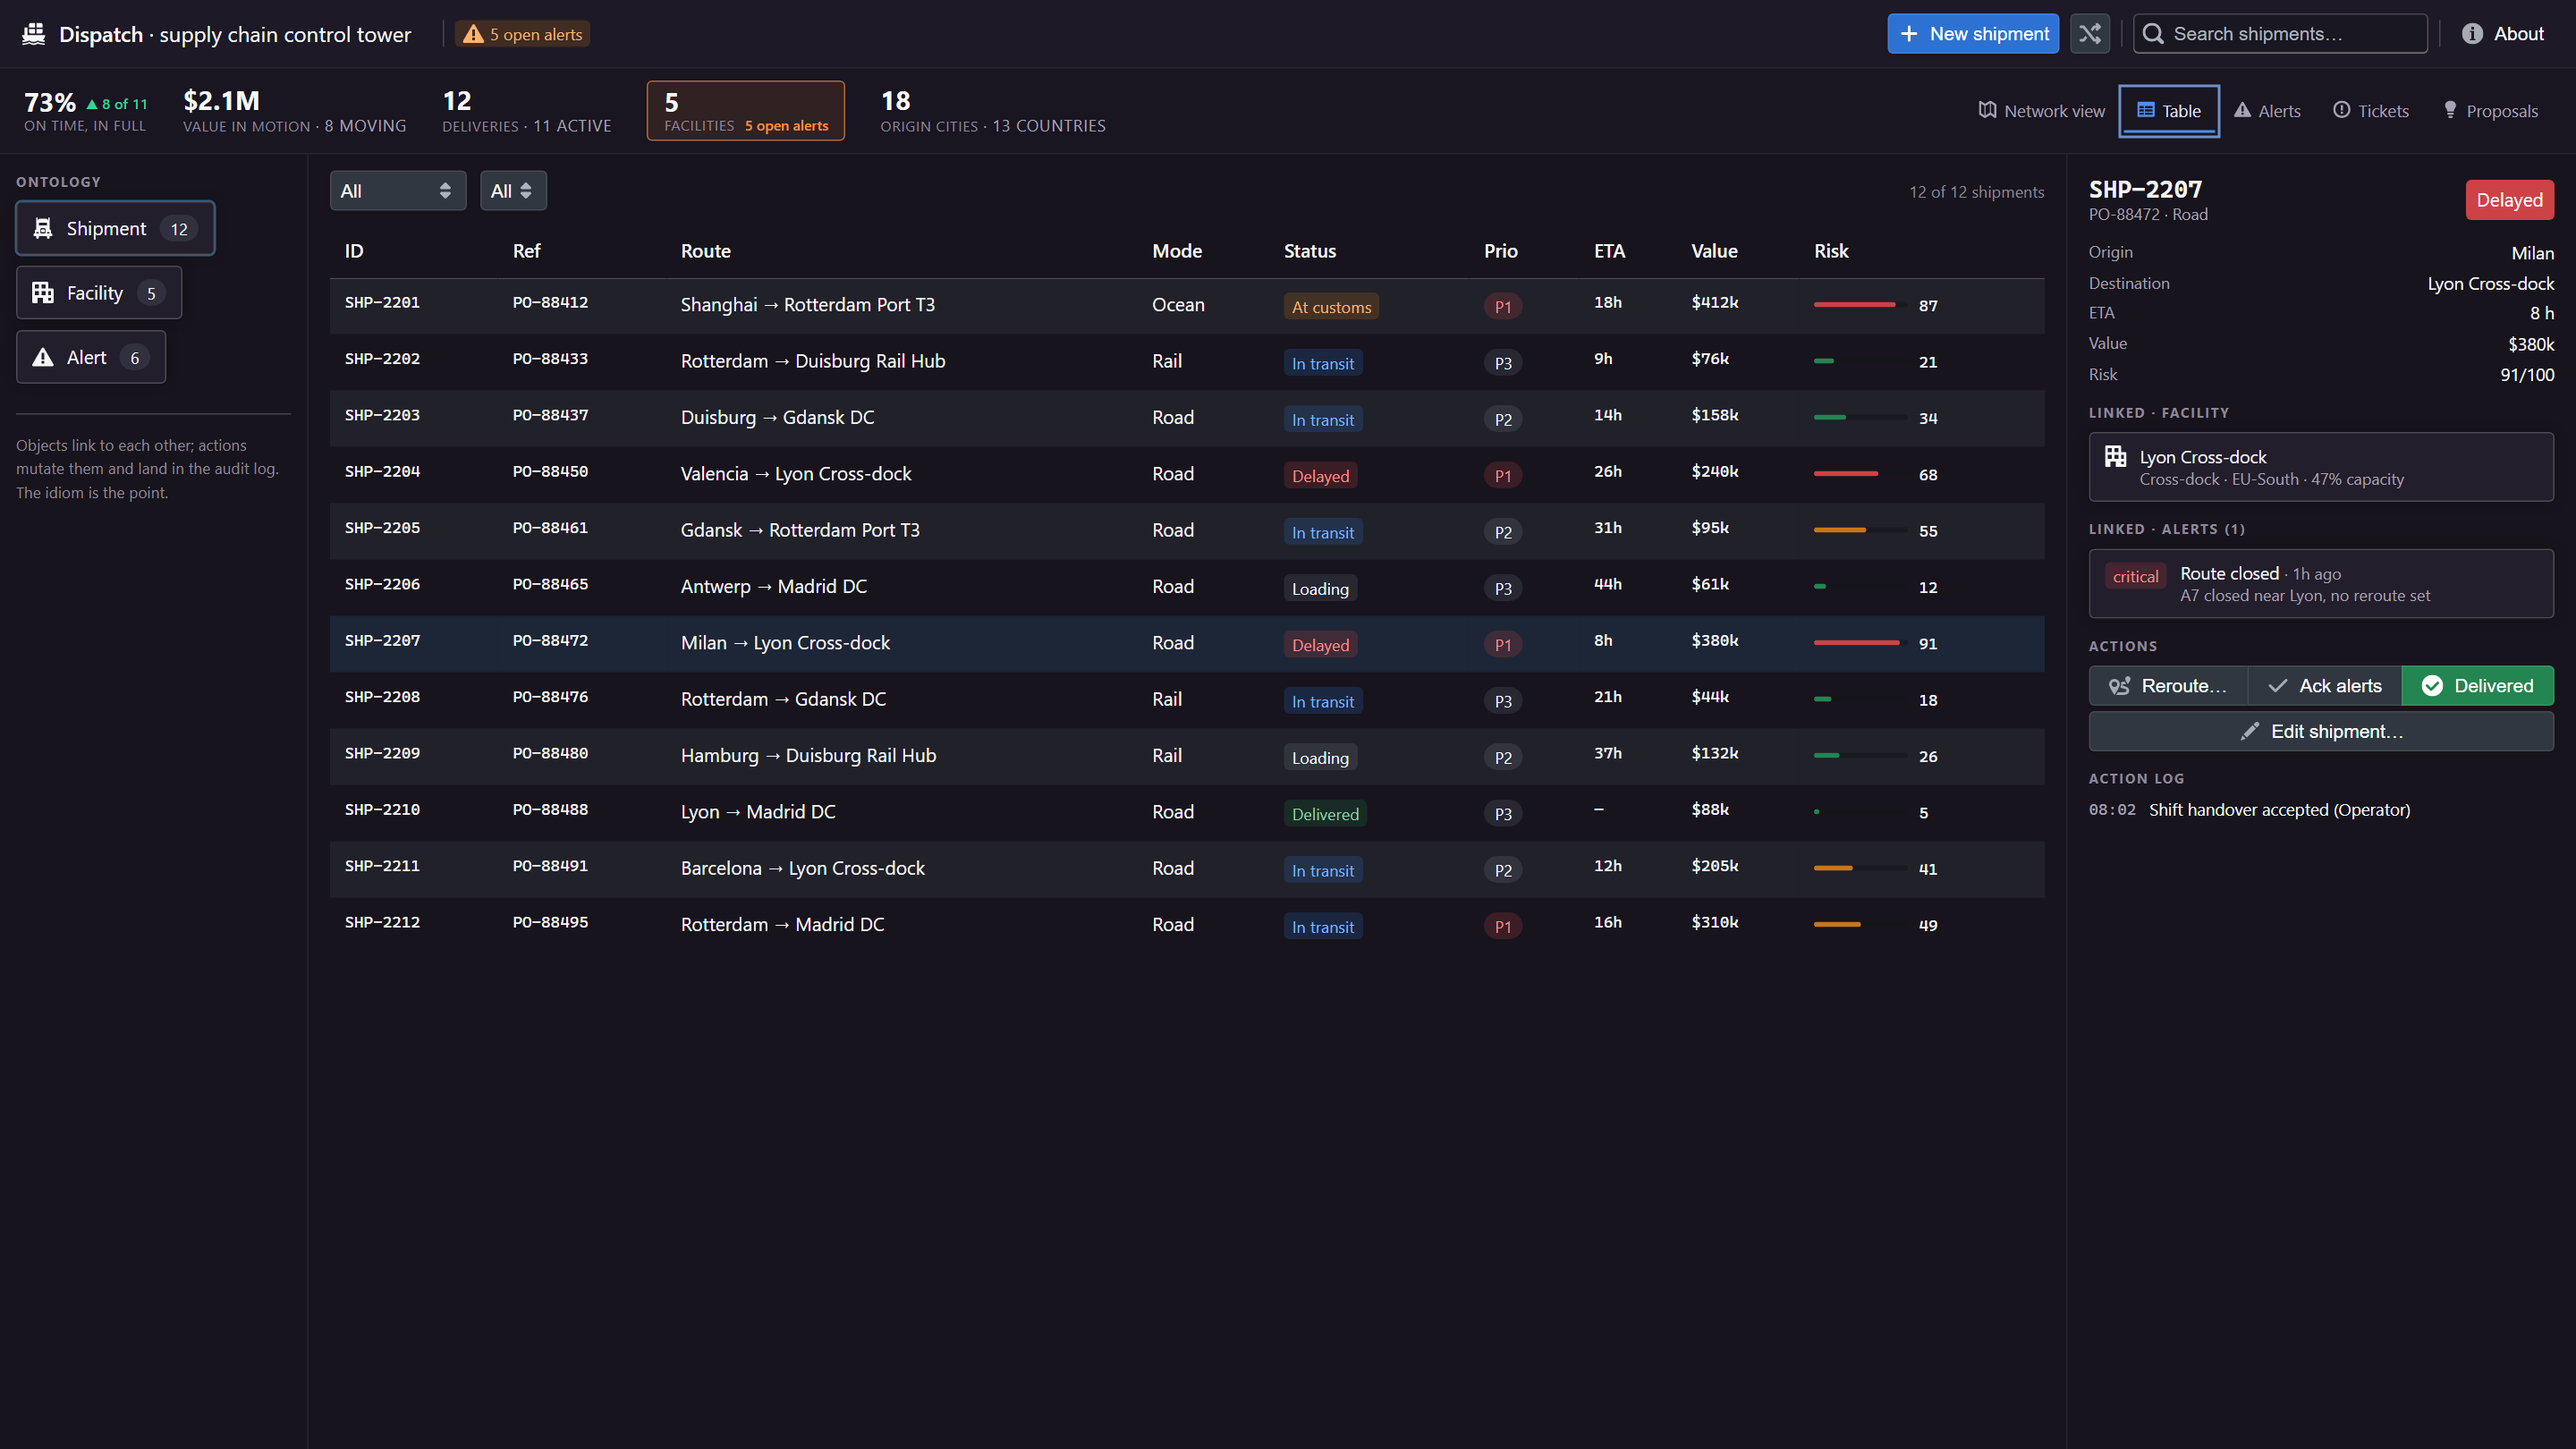
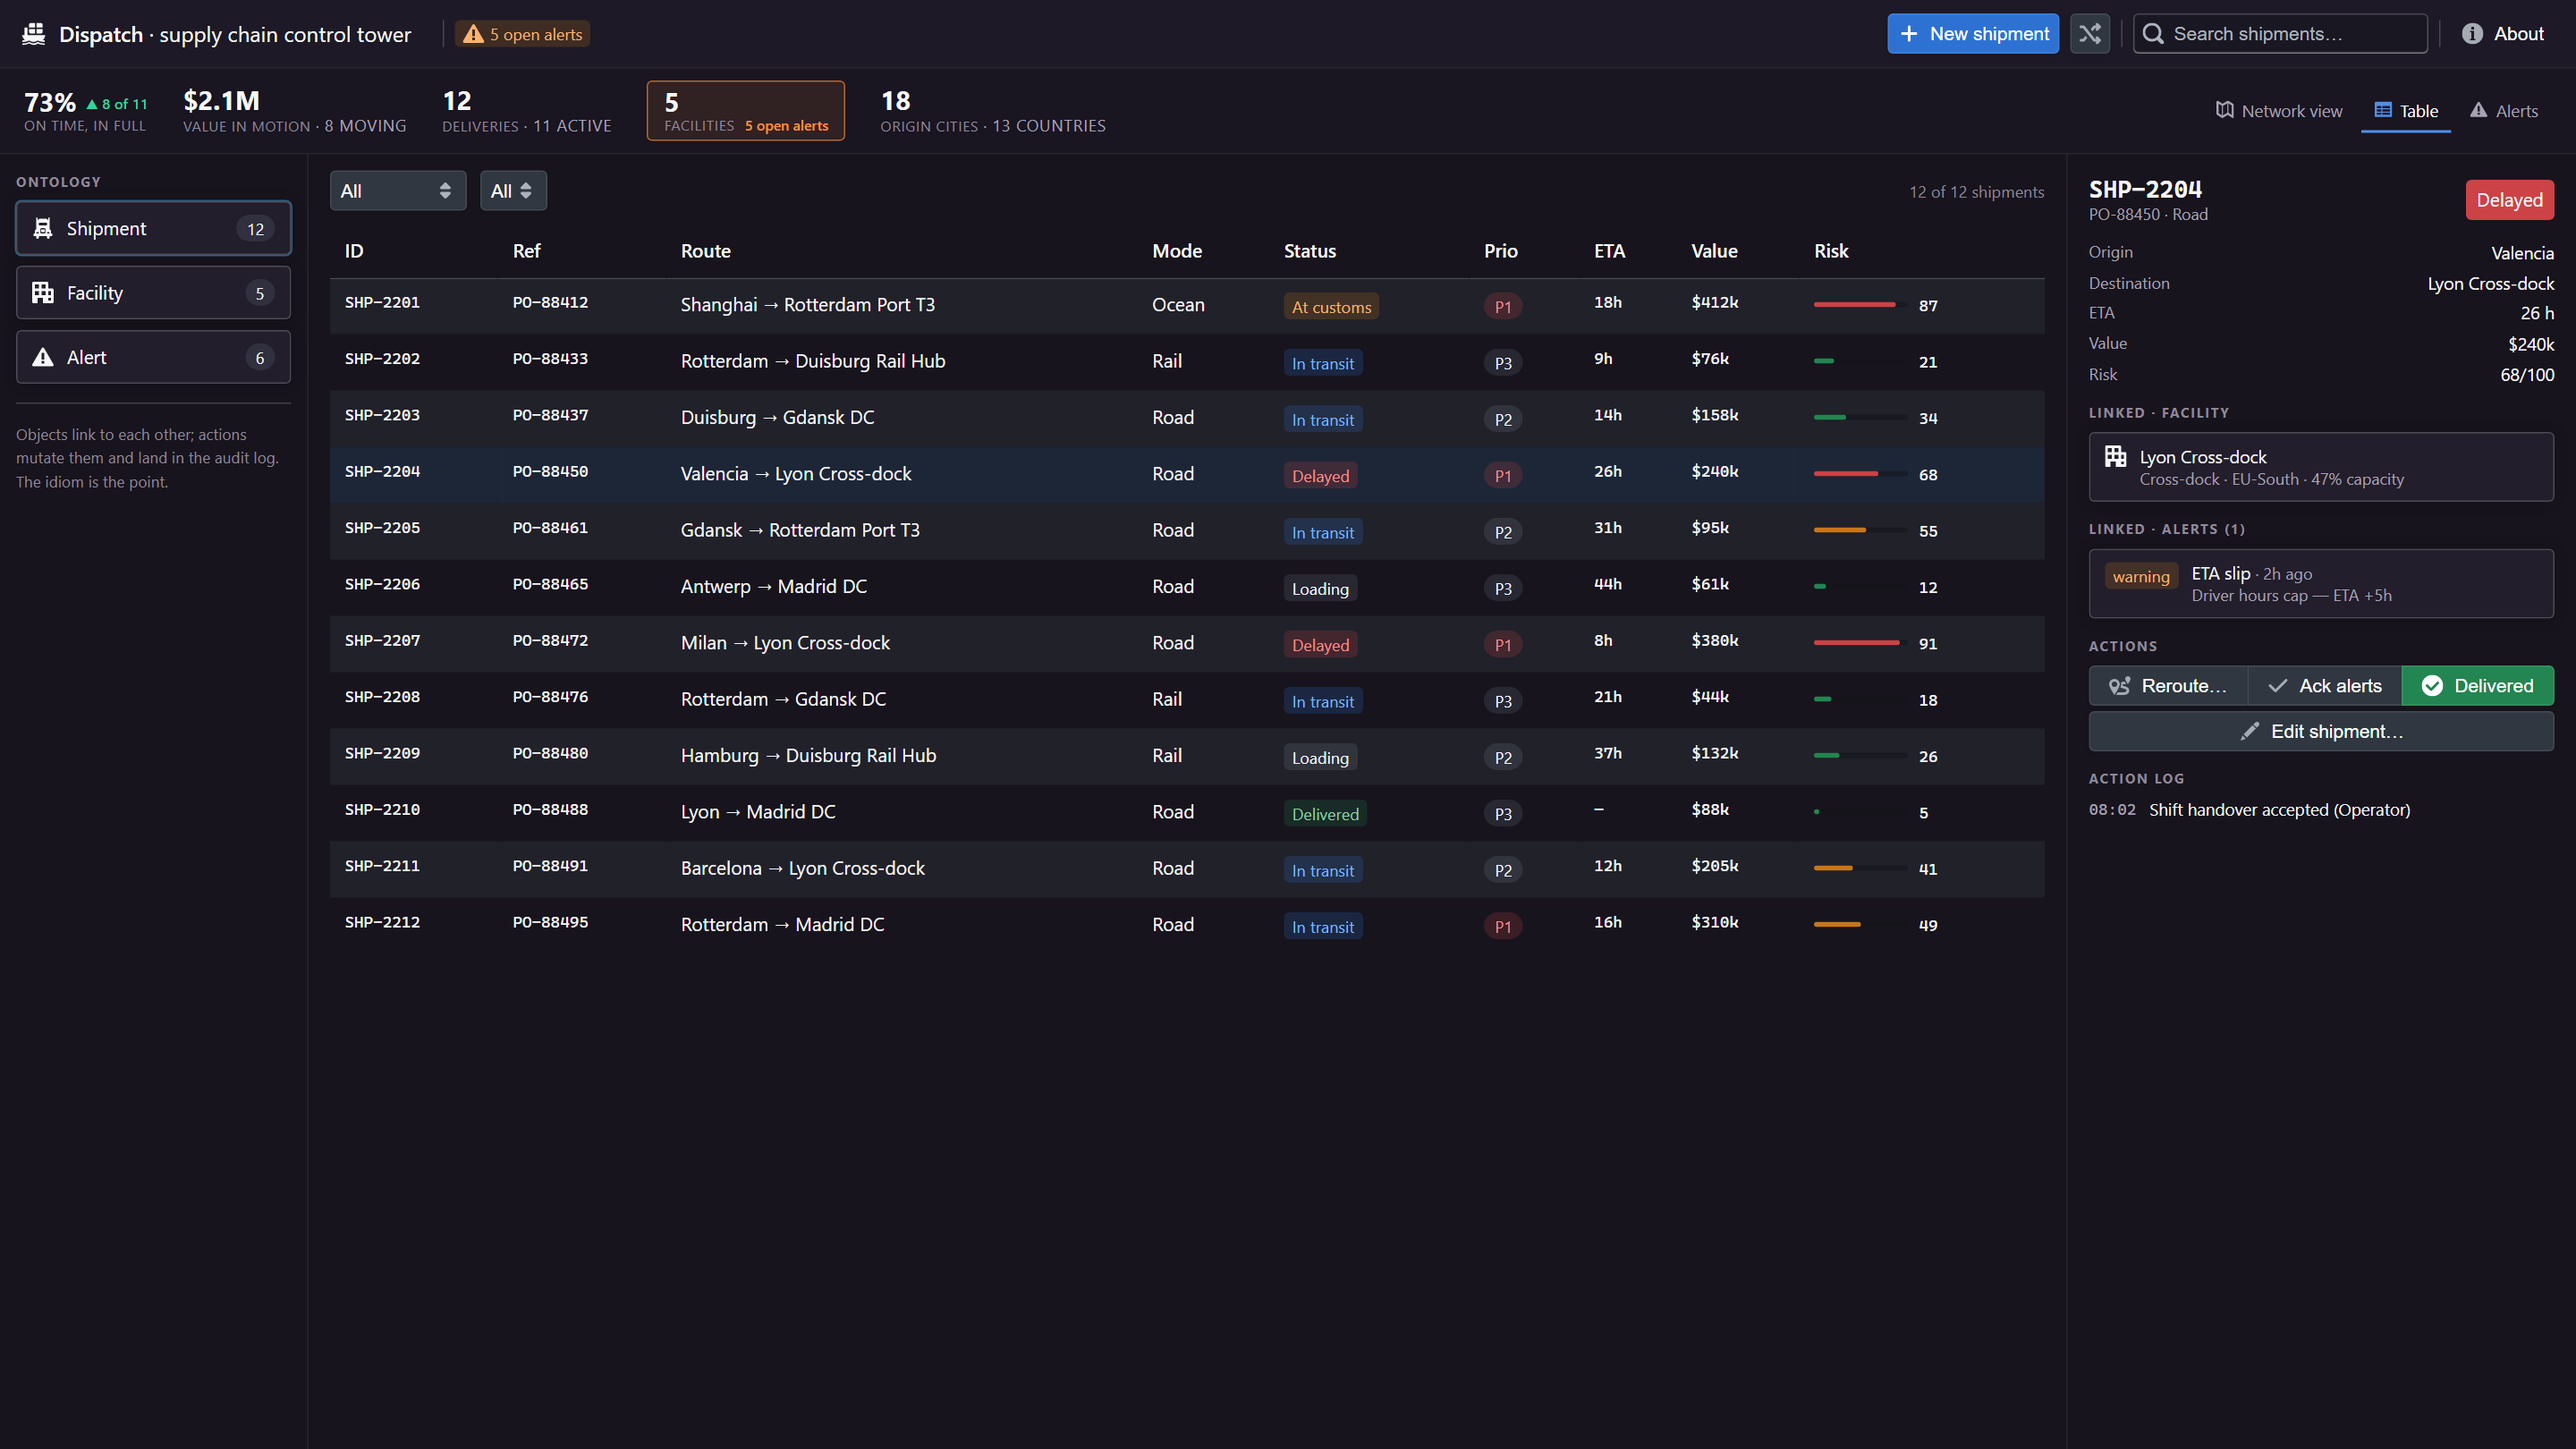
Simplify to demo-proof: drop dead chrome, fix fast-tab-flip crash
Removed everything that looked interactive but wasn't: the map
toolbar (Select/Search around/Draw/Measure), Tickets and Proposals
stub tabs, the Find/Histogram panel tabs, the Entity 360 side tab,
and the sticky navbar tooltip that could intercept tab clicks.
Three view tabs remain (Network / Table / Alerts) and every visible
control now does something real. Reroute is disabled for delivered
shipments; the KPI ribbon wraps cleanly on 1536/1366 laptops.

Real bug found by the pre-demo test fan-out and fixed: the map's
deferred invalidateSize timer was never cleared on unmount, so
flipping tabs within ~60ms crashed with _leaflet_pos pageerrors.
The timer is now cleared in the effect cleanup; 15 rapid flips
inside the window run clean.

Verified by a 6-agent sweep: every control clicked, edge cases
(all alerts acked, all shipments delivered, empty map, 5 rapid
creates), 1920/1536/1366 widths, a 105-gesture chaos session, the
exact demo script end-to-end (every step reflects in <500ms), and
a visual review — all green, zero console errors.

diff --git a/src/App.jsx b/src/App.jsx
@@ -5,7 +5,7 @@
 import { useMemo, useState } from 'react';
 import {
     Navbar, Alignment, InputGroup, Button, ButtonGroup, Tag, HTMLTable, Card,
-    Dialog, DialogBody, DialogFooter, HTMLSelect, ProgressBar, Icon, Tooltip,
+    Dialog, DialogBody, DialogFooter, HTMLSelect, ProgressBar, Icon,
     Divider, NonIdealState, OverlayToaster, Position, Intent,
     FormGroup, NumericInput,
 } from '@blueprintjs/core';
@@ -47,15 +47,6 @@ const VIEW_TABS = [
     { key: 'map', icon: 'map', label: 'Network view' },
     { key: 'table', icon: 'th', label: 'Table' },
     { key: 'alerts', icon: 'warning-sign', label: 'Alerts' },
-    { key: 'tickets', icon: 'issue', label: 'Tickets' },
-    { key: 'proposals', icon: 'lightbulb', label: 'Proposals' },
-];
-
-const MAP_TOOLS = [
-    { key: 'select', icon: 'select', label: 'Select' },
-    { key: 'search-around', icon: 'search-around', label: 'Search around' },
-    { key: 'draw', icon: 'draw', label: 'Draw' },
-    { key: 'measure', icon: 'arrows-horizontal', label: 'Measure' },
 ];
 
 export default function App() {
@@ -70,8 +61,7 @@ export default function App() {
     const [aboutOpen, setAboutOpen] = useState(false);
     // shipment form: null = closed, {mode:'create'|'edit', fields} = open
     const [form, setForm] = useState(null);
-    const [view, setView] = useState('map');   // 'map' | 'table' | 'alerts' | 'tickets' | 'proposals'
-    const [tool, setTool] = useState('select'); // map toolbar (select is the live tool)
+    const [view, setView] = useState('map');   // 'map' | 'table' | 'alerts'
     const [mapShow, setMapShow] = useState(DEFAULT_MAP_LAYERS);
     const [overlays, setOverlays] = useState(DEFAULT_OVERLAYS);
     const toggleMapLayer = (k) => setMapShow(m => ({ ...m, [k]: !m[k] }));
@@ -159,9 +149,8 @@ export default function App() {
                 <Navbar.Group align={Alignment.RIGHT}>
                     <Button intent={Intent.PRIMARY} icon="plus" text="New shipment"
                         onClick={() => setForm({ mode: 'create', fields: { ...EMPTY_FORM } })} />
-                    <Tooltip content="Create a shipment with randomized parameters" placement="bottom">
-                        <Button icon="random" style={{ marginLeft: 8 }} onClick={actRandomShipment} />
-                    </Tooltip>
+                    <Button icon="random" title="Create a shipment with randomized parameters"
+                        style={{ marginLeft: 8 }} onClick={actRandomShipment} />
                     <Navbar.Divider />
                     <InputGroup leftIcon="search" placeholder="Search shipments…" value={query}
                         onChange={e => setQuery(e.target.value)} style={{ width: 220 }} />
@@ -214,13 +203,11 @@ export default function App() {
                         const count = t.key === 'shipment' ? shipments.length : t.key === 'facility' ? FACILITIES.length : alerts.length;
                         const active2 = t.key === 'shipment';
                         return (
-                            <Tooltip key={t.key} content={active2 ? t.description : `${t.description} — modeled; list view TBD`} placement="right">
-                                <Card interactive={active2} className={'otype' + (active2 ? ' otype--active' : '')}>
-                                    <Icon icon={t.icon} />
-                                    <span className="otype-label">{t.label}</span>
-                                    <Tag minimal round>{count}</Tag>
-                                </Card>
-                            </Tooltip>
+                            <Card key={t.key} title={t.description} className={'otype' + (active2 ? ' otype--active' : '')}>
+                                <Icon icon={t.icon} />
+                                <span className="otype-label">{t.label}</span>
+                                <Tag minimal round>{count}</Tag>
+                            </Card>
                         );
                     })}
                     <Divider style={{ margin: '14px 0' }} />
@@ -241,18 +228,6 @@ export default function App() {
                 {/* ---- Main pane: map / table / alerts / stubs ---- */}
                 <main className="table-pane">
                     <div className="filters">
-                        {view === 'map' && (
-                            <>
-                                <ButtonGroup>
-                                    {MAP_TOOLS.map(t => (
-                                        <Tooltip key={t.key} content={t.key === 'select' ? 'Click objects on the map to inspect them' : 'Demo chrome — selection is the live tool'} placement="bottom">
-                                            <Button icon={t.icon} text={t.label} active={tool === t.key} onClick={() => setTool(t.key)} />
-                                        </Tooltip>
-                                    ))}
-                                </ButtonGroup>
-                                <Divider style={{ height: 20 }} />
-                            </>
-                        )}
                         {(view === 'map' || view === 'table') && (
                             <>
                                 <HTMLSelect value={statusFilter} onChange={e => setStatusFilter(e.target.value)}
@@ -322,14 +297,6 @@ export default function App() {
                         </div>
                     )}
 
-                    {view === 'tickets' && (
-                        <NonIdealState icon="issue" title="Tickets aren't wired in this demo"
-                            description="The tab shows the shape of the console; the live objects are shipments, facilities and alerts." />
-                    )}
-                    {view === 'proposals' && (
-                        <NonIdealState icon="lightbulb" title="Proposals aren't wired in this demo"
-                            description="In the real idiom this is where AI-suggested reallocations would queue for operator approval." />
-                    )}
                 </main>
 
                 {/* ---- Object detail + actions ---- */}
@@ -378,7 +345,7 @@ export default function App() {
 
                             <div className="rail-title">ACTIONS</div>
                             <ButtonGroup fill vertical={false} className="actions-row">
-                                <Button icon="route" text="Reroute…" onClick={() => {
+                                <Button icon="route" text="Reroute…" disabled={selected.status === 'Delivered'} onClick={() => {
                                     // preselect the first facility that isn't the current destination —
                                     // stale state here made the select show one thing and submit another
                                     setRerouteDest(FACILITIES.find(f => f.id !== selected.destId).id);

diff --git a/src/index.css b/src/index.css
@@ -14,7 +14,8 @@ body { font-family: -apple-system, BlinkMacSystemFont, 'Segoe UI', sans-serif; }
 
 /* ---- KPI ribbon + view tabs ---- */
 .kpis { display: flex; align-items: stretch; gap: 26px; padding: 10px 18px 9px;
-    background: #191521; border-bottom: 1px solid rgba(255,255,255,0.07); }
+    background: #191521; border-bottom: 1px solid rgba(255,255,255,0.07); flex-wrap: wrap; row-gap: 4px; }
+@media (max-width: 1600px) { .kpis { gap: 16px; } .kpi__num { font-size: 17px; } }
 .kpi { display: flex; flex-direction: column; justify-content: center; white-space: nowrap; }
 .kpi__num { font-size: 19px; font-weight: 700; letter-spacing: 0.01em; line-height: 1.15;
     font-variant-numeric: tabular-nums; }
@@ -156,18 +157,8 @@ body { font-family: -apple-system, BlinkMacSystemFont, 'Segoe UI', sans-serif; }
 .ctl-metrics__row b { color: #fff; font-weight: 600; font-variant-numeric: tabular-nums; }
 .ctl-stem { flex: 1; width: 0; border-left: 1px solid rgba(248,113,113,0.75); margin-left: 12px; min-height: 14px; }
 
-/* Entity 360 side tab (chrome) */
-.entity360 { position: absolute; right: -1px; top: 36%; z-index: 1;
-    writing-mode: vertical-rl; padding: 12px 5px; font-size: 10px; letter-spacing: 0.16em;
-    color: #a8a1b3; background: rgba(29,25,38,0.95); border: 1px solid rgba(255,255,255,0.12);
-    border-right: none; border-radius: 6px 0 0 6px; }
-
 /* ---- left-rail map panel: legend tabs, object checkboxes, overlays ---- */
 .map-panel .rail-title { margin-top: 14px; }
-.panel-tabs { display: flex; gap: 2px; border-bottom: 1px solid rgba(255,255,255,0.09); margin-bottom: 4px; }
-.panel-tab { font-size: 11.5px; padding: 4px 9px 6px; color: #8f8899; border-bottom: 2px solid transparent; }
-.panel-tab--active { color: #fff; border-bottom-color: #4c90f0; }
-.panel-tab--off { opacity: 0.55; cursor: default; }
 .obj-row .bp6-checkbox { margin-bottom: 6px; font-size: 12.5px; }
 .obj-swatch { display: inline-block; width: 10px; height: 10px; border-radius: 2px; margin-right: 7px; vertical-align: -1px; }
 .obj-swatch--ramp { background: linear-gradient(90deg, #34d399, #fbbf24, #f87171); }

diff --git a/src/MapView.jsx b/src/MapView.jsx
@@ -78,11 +78,6 @@ export function MapLayersPanel({ show, onToggle, overlays, onToggleOverlay, ship
     );
     return (
         <div className="map-panel">
-            <div className="panel-tabs">
-                <span className="panel-tab panel-tab--active">Legend</span>
-                <span className="panel-tab panel-tab--off" title="Not wired in this demo">Find</span>
-                <span className="panel-tab panel-tab--off" title="Not wired in this demo">Histogram</span>
-            </div>
             <div className="rail-title">OBJECTS</div>
             {row('routes', 'Deliveries — routes', shipments.length, 'obj-swatch--ramp')}
             {row('transit', 'In motion', inMotion, 'obj-swatch--teal')}
@@ -151,9 +146,11 @@ export default function MapView({ shipments, alerts, selectedId, onSelect, show 
         map.fitBounds(EUROPE_BOUNDS, { padding: [10, 10] });
         layersRef.current = L.layerGroup().addTo(map);
         mapRef.current = map;
-        // the pane mounts inside a grid — make sure Leaflet measures it right
-        setTimeout(() => map.invalidateSize(), 60);
-        return () => { map.remove(); mapRef.current = null; };
+        // the pane mounts inside a grid — make sure Leaflet measures it right.
+        // The timer MUST be cleared on unmount: leaving the map view within
+        // ~60ms (fast tab flips) otherwise fires invalidateSize on a removed map.
+        const sizeTimer = setTimeout(() => map.invalidateSize(), 60);
+        return () => { clearTimeout(sizeTimer); map.remove(); mapRef.current = null; };
     }, []);
 
     // redraw overlays whenever the data, selection or layer toggles change
@@ -308,7 +305,6 @@ export default function MapView({ shipments, alerts, selectedId, onSelect, show 
     return (
         <div className="map-outer">
             <div ref={hostRef} className="map-host" />
-            <div className="entity360">ENTITY 360</div>
         </div>
     );
 }
